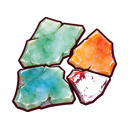
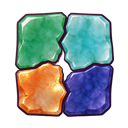
feat(assets): 重做通用碎片道具图标
- 四块玉片改为翠绿/青蓝/橙金/靛蓝，避开与洋红键色的冲突
- 128×128 真透明，边缘色键残留 0，四块分离清楚
- 提示词文件同步修正版并去掉待重做标记

diff --git a/docs/P0-剩余27张提示词-可直接粘贴.md b/docs/P0-剩余27张提示词-可直接粘贴.md
@@ -2,7 +2,7 @@
 
 > 生成日期：2026-10-26
 > 范围：P0 未完成的 27 张（道具 4 + 法宝 11 + UI 与锁格 12）
-> **进度（2026-10-26）**：道具 4 张已生成、处理并接入，本文件前 4 条作废，剩余 23 张。
+> **进度（2026-10-26）**：道具 4 张已生成、处理并接入，本文件前 4 条作废，剩余 23 张。`通用碎片` 已按下方修正版（翠绿/青蓝/橙金/靛蓝）重做完成，紫红与洋红键色冲突的问题已消除。
 > 规则来源：[素材生产总纲.md](./素材生产总纲.md) §8、§9 与 [Gemini-P0单资产提示词包.md](./Gemini-P0单资产提示词包.md) §1、§2
 > 本文件是把固定块和单次 brief 拼好的成品，逐张复制，不要再自己改写风格描述。
 
@@ -30,9 +30,10 @@
 ```text
 只生成一个独立游戏图标，单张图，不出现角色、手、文字、卡牌框、棋盘或场景。
 主体完整居中，采用轻微 3/4 角度，保留约 10% 安全边距；轮廓和关键结构必须清楚。
-画风为扁平国潮 Q 版，2 层 cel shading，无渐变，深色粗轮廓约为主体宽度的 4%-5%，高饱和、高对比。
+画风为扁平国潮 Q 版，2 层 cel shading，无渐变，深色粗轮廓约为主体宽度的 5%，高饱和、高对比。
 背景为单一纯洋红色 chroma 键，背景平整、无纹理、无渐变、无投影、无边框。
-本次资产：彩色玉片拼成的通用碎片，三到四块不规则玉片，中央有清楚的组合缺口，单件物品。
+本次资产：彩色玉片拼成的通用碎片，四块不规则玉片，中央有清楚的组合缺口。每块玉片是纯色块面，分别取翠绿、青蓝、橙金、靛蓝，只用单一硬边高光表现厚度，不要大理石纹理、不要噪点、不要宝石切面反光；四块之间留出清楚的深色缝隙，能一眼看出是四块分开的碎片。
+不要使用紫红、洋红或粉紫系颜色，会和背景键色混淆导致抠图吃掉主体。
 不要：多个主体、分格、拼图、卡牌、边框、文字、水印、棋盘、场景、重复武器、额外手脚。
 直接生成一张图片，不要解释，不要生成多张，不要输出分镜或拼图。
 ```
